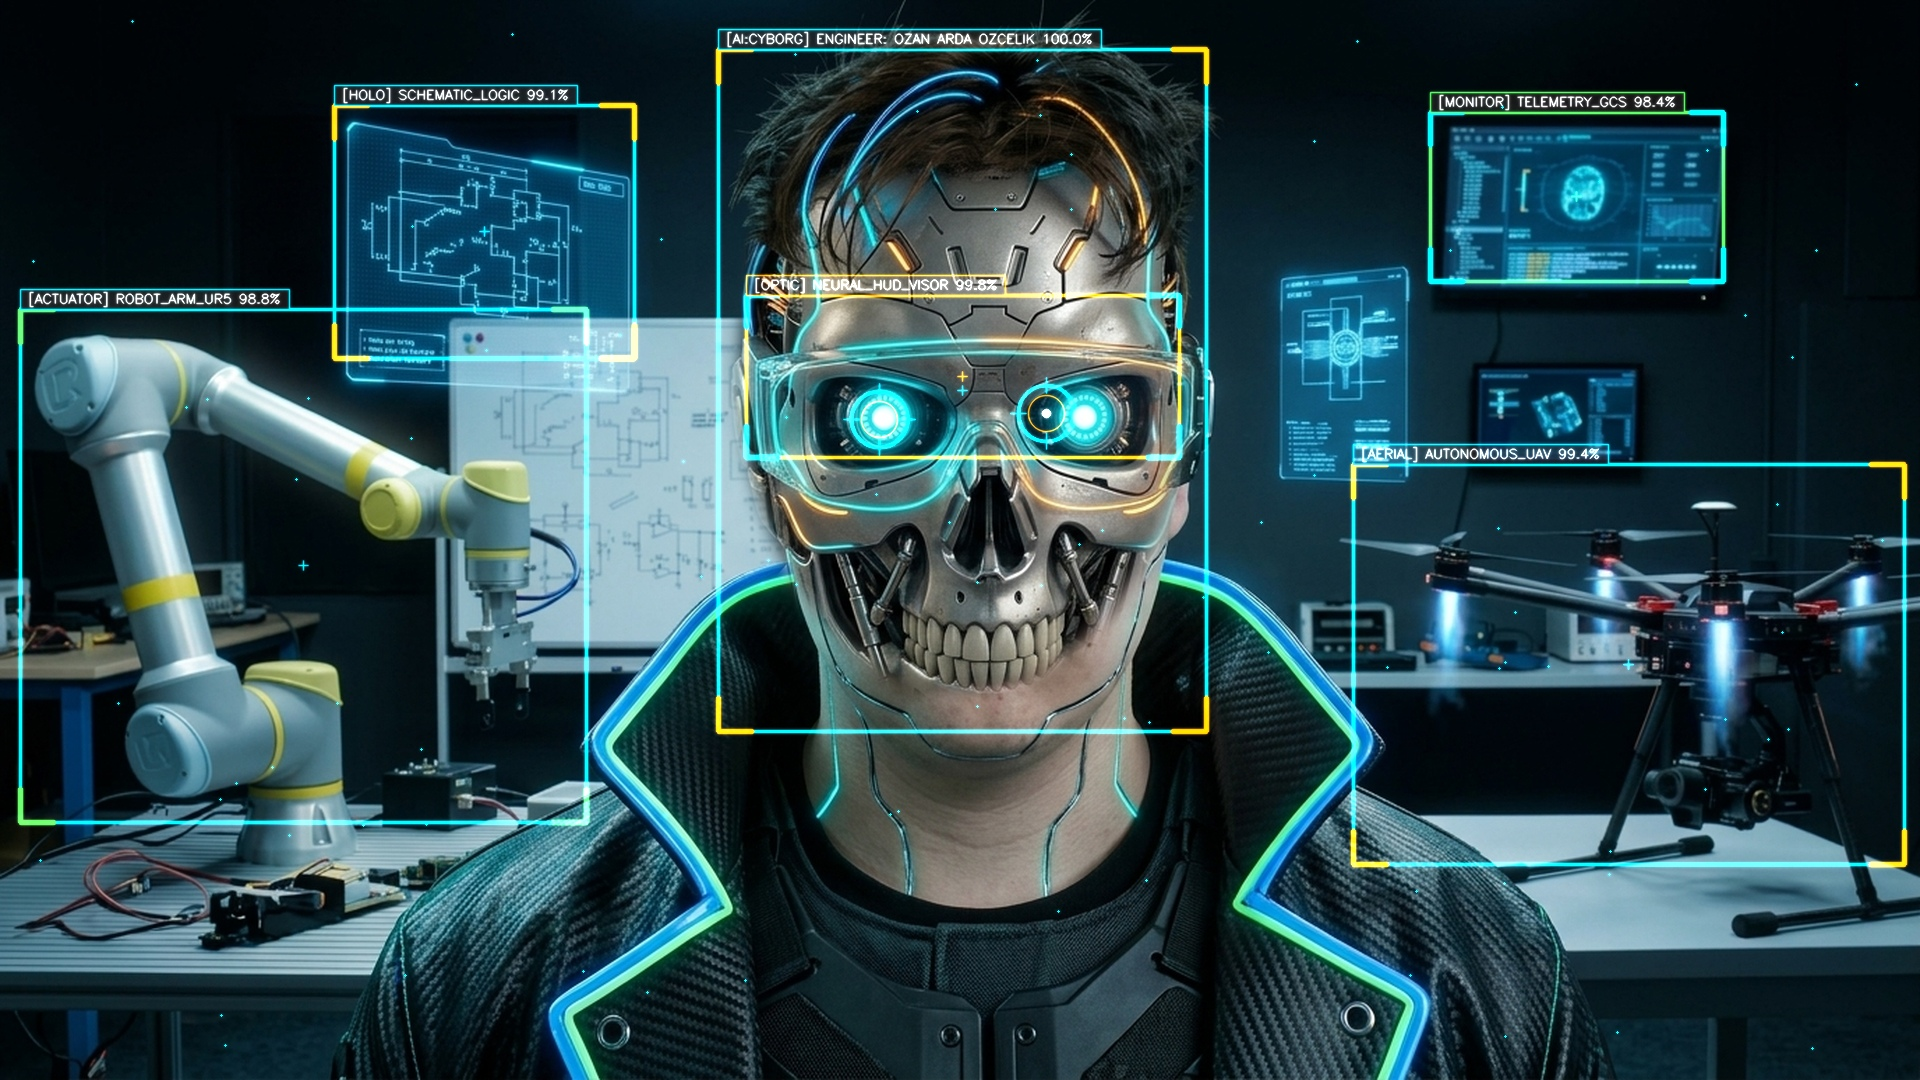
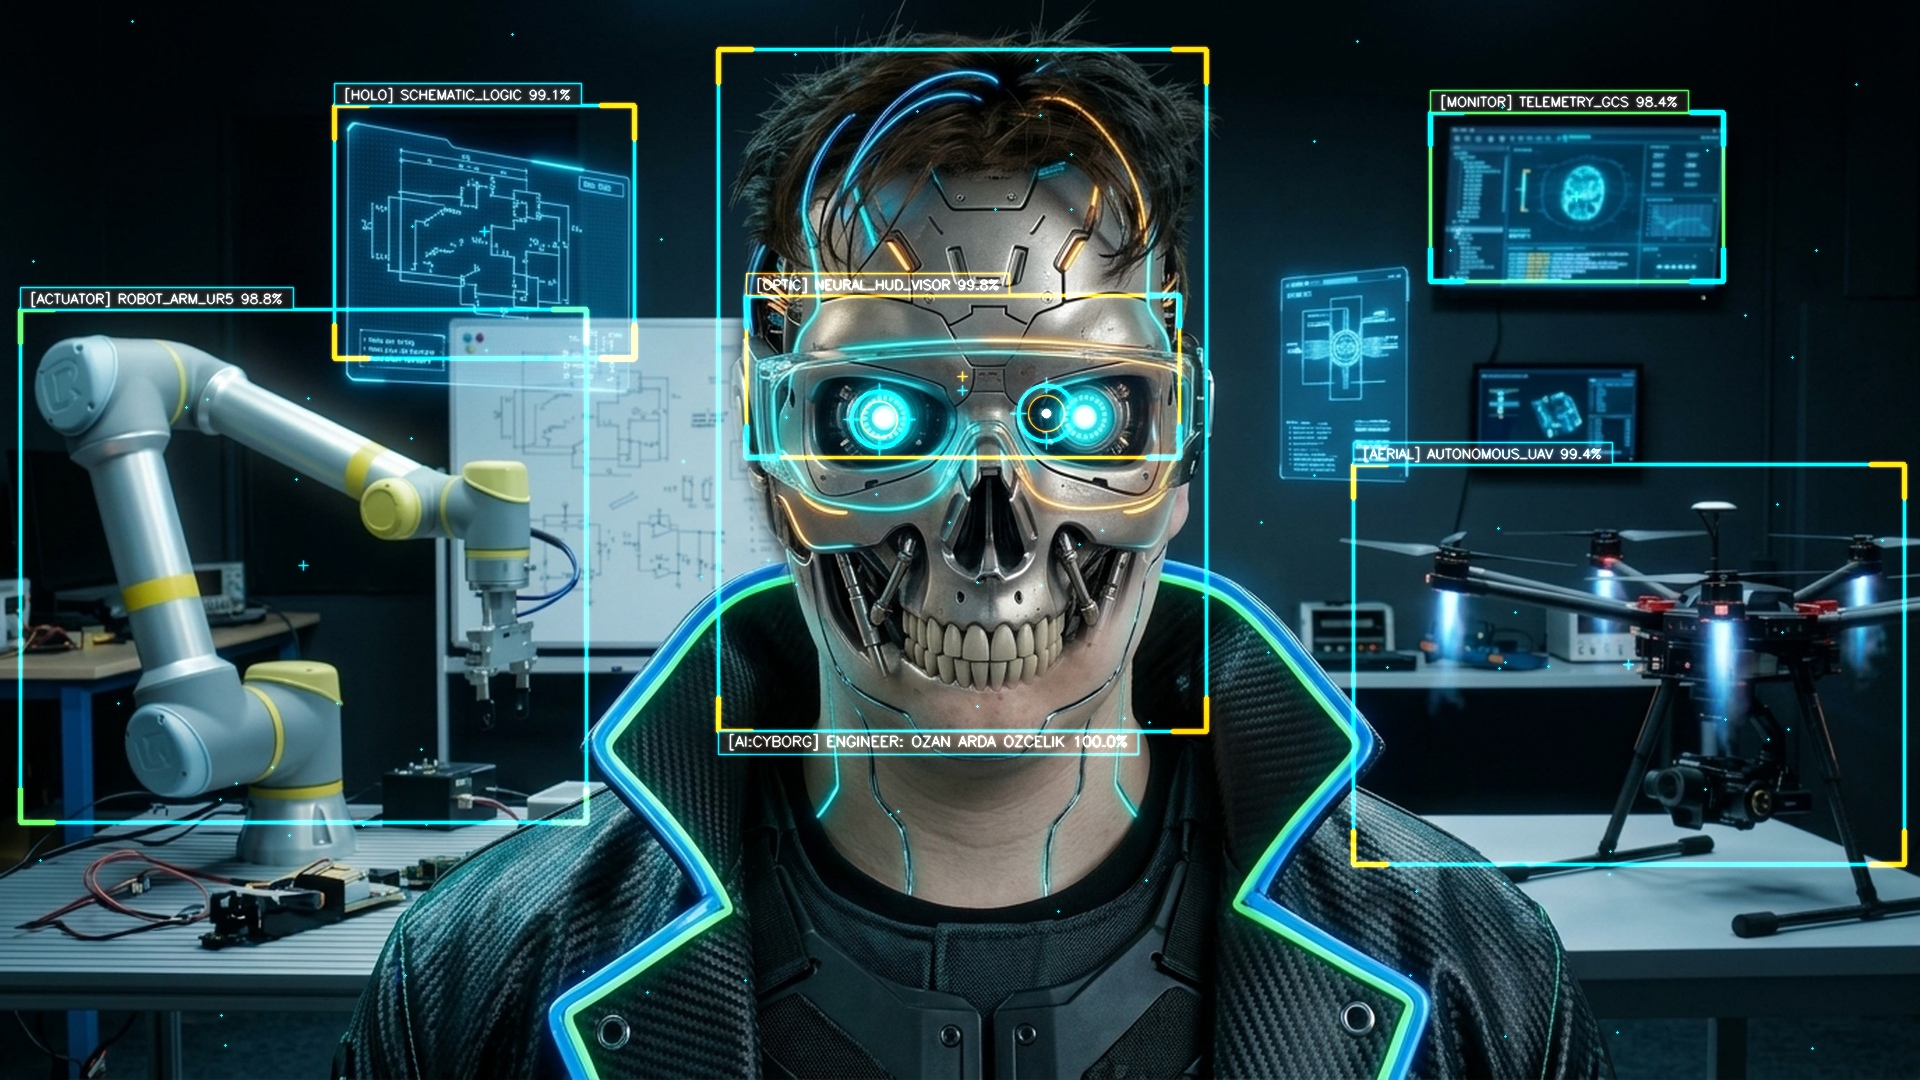
feat(hero): reposition engineer bounding box tag to bottom edge for crisp visibility

diff --git a/scratch/build_ai_cyborg_hero.py b/scratch/build_ai_cyborg_hero.py
@@ -35,7 +35,7 @@ def build_composite_bottom():
     composite = (bot_aligned * mask_3ch + top * (1.0 - mask_3ch)).astype(np.uint8)
     return composite
 
-def draw_cyber_box(overlay, px1, py1, px2, py2, label, score, primary=CYAN, accent=AMBER, class_id=None, glow=False):
+def draw_cyber_box(overlay, px1, py1, px2, py2, label, score, primary=CYAN, accent=AMBER, class_id=None, glow=False, tag_pos="top", font_scale_custom=None):
     box_thick = 2 if glow else 1
 
     # Boundary box
@@ -54,27 +54,32 @@ def draw_cyber_box(overlay, px1, py1, px2, py2, label, score, primary=CYAN, acce
     # Tag label text
     tag_text = f"[{class_id}] {label} {score:.1f}%" if score is not None else f"[{class_id}] {label}"
     font = cv2.FONT_HERSHEY_SIMPLEX
-    font_scale = 0.44 if glow else 0.41
+    font_scale = font_scale_custom if font_scale_custom is not None else (0.44 if glow else 0.41)
     thickness = 1
     (tw, th), _ = cv2.getTextSize(tag_text, font, font_scale, thickness)
 
-    tag_w = tw + 16
-    tag_h = th + 10
+    tag_w = tw + 20
+    tag_h = th + 12
     tag_x1 = max(4, min(px1, TARGET_W - tag_w - 4))
     tag_x2 = tag_x1 + tag_w
 
-    if py1 - tag_h > 4:
-        tag_y1 = py1 - tag_h
-        tag_y2 = py1
+    if tag_pos == "bottom":
+        tag_y1 = py2
+        tag_y2 = min(TARGET_H - 4, py2 + tag_h)
+        text_y = py2 + th + 4
     else:
-        tag_y1 = py1 + 2
-        tag_y2 = py1 + tag_h + 2
-    text_y = tag_y2 - 6
+        if py1 - tag_h > 4:
+            tag_y1 = py1 - tag_h
+            tag_y2 = py1
+        else:
+            tag_y1 = py1 + 2
+            tag_y2 = py1 + tag_h + 2
+        text_y = tag_y2 - 6
 
     # Dark background badge with cyber outline
     cv2.rectangle(overlay, (tag_x1, tag_y1), (tag_x2, tag_y2), DARK_BG, -1)
     cv2.rectangle(overlay, (tag_x1, tag_y1), (tag_x2, tag_y2), primary, 1, cv2.LINE_AA)
-    cv2.putText(overlay, tag_text, (tag_x1 + 8, text_y), font, font_scale, WHITE, thickness, cv2.LINE_AA)
+    cv2.putText(overlay, tag_text, (tag_x1 + 10, text_y), font, font_scale, WHITE, thickness, cv2.LINE_AA)
 
     # Center tracking reticle
     cx_center = (px1 + px2) // 2
@@ -94,18 +99,18 @@ sx = 1920.0 / 1376.0
 sy = 1080.0 / 768.0
 
 BOX_SPECS = [
-    # 1. Main Engineer Face Box (Head & Shoulders)
-    (int(515 * sx), int(35 * sy), int(865 * sx), int(520 * sy), "ENGINEER: OZAN ARDA OZCELIK", 100.0, CYAN, AMBER, "AI:CYBORG"),
+    # 1. Main Engineer Face Box (Head & Shoulders) — TAG AT BOTTOM FOR MAXIMUM READABILITY!
+    (int(515 * sx), int(35 * sy), int(865 * sx), int(520 * sy), "ENGINEER: OZAN ARDA OZCELIK", 100.0, CYAN, AMBER, "AI:CYBORG", "bottom", 0.48),
     # 2. Cyber Visor / Optical HUD
-    (int(535 * sx), int(210 * sy), int(845 * sx), int(325 * sy), "NEURAL_HUD_VISOR", 99.8, AMBER, CYAN, "OPTIC"),
+    (int(535 * sx), int(210 * sy), int(845 * sx), int(325 * sy), "NEURAL_HUD_VISOR", 99.8, AMBER, CYAN, "OPTIC", "top", None),
     # 3. UR5 Robot Arm (Left)
-    (int(15 * sx), int(220 * sy), int(420 * sx), int(585 * sy), "ROBOT_ARM_UR5", 98.8, CYAN, GREEN, "ACTUATOR"),
+    (int(15 * sx), int(220 * sy), int(420 * sx), int(585 * sy), "ROBOT_ARM_UR5", 98.8, CYAN, GREEN, "ACTUATOR", "top", None),
     # 4. UAV Drone (Right)
-    (int(970 * sx), int(330 * sy), int(1365 * sx), int(615 * sy), "AUTONOMOUS_UAV", 99.4, CYAN, AMBER, "AERIAL"),
+    (int(970 * sx), int(330 * sy), int(1365 * sx), int(615 * sy), "AUTONOMOUS_UAV", 99.4, CYAN, AMBER, "AERIAL", "top", None),
     # 5. Floating Circuit Hologram (Left-Center)
-    (int(240 * sx), int(75 * sy), int(455 * sx), int(255 * sy), "SCHEMATIC_LOGIC", 99.1, CYAN, AMBER, "HOLO"),
+    (int(240 * sx), int(75 * sy), int(455 * sx), int(255 * sy), "SCHEMATIC_LOGIC", 99.1, CYAN, AMBER, "HOLO", "top", None),
     # 6. Telemetry Monitor (Top-Right)
-    (int(1025 * sx), int(80 * sy), int(1235 * sx), int(200 * sy), "TELEMETRY_GCS", 98.4, GREEN, CYAN, "MONITOR"),
+    (int(1025 * sx), int(80 * sy), int(1235 * sx), int(200 * sy), "TELEMETRY_GCS", 98.4, GREEN, CYAN, "MONITOR", "top", None),
 ]
 
 def generate():
@@ -115,8 +120,8 @@ def generate():
     top_bgr = cv2.cvtColor(np.array(top_1080), cv2.COLOR_RGB2BGR)
 
     top_overlay = np.zeros_like(top_bgr)
-    for px1, py1, px2, py2, label, score, primary, accent, cid in BOX_SPECS:
-        draw_cyber_box(top_overlay, px1, py1, px2, py2, label, score, primary, accent, cid, glow=False)
+    for px1, py1, px2, py2, label, score, primary, accent, cid, tag_pos, fscale in BOX_SPECS:
+        draw_cyber_box(top_overlay, px1, py1, px2, py2, label, score, primary, accent, cid, glow=False, tag_pos=tag_pos, font_scale_custom=fscale)
 
     add_cyber_particles(top_overlay, 50)
     top_blur = cv2.GaussianBlur(top_overlay, (5, 5), 0)
@@ -134,8 +139,8 @@ def generate():
     bot_bgr = cv2.cvtColor(np.array(bot_1080), cv2.COLOR_RGB2BGR)
 
     bot_overlay = np.zeros_like(bot_bgr)
-    for px1, py1, px2, py2, label, score, primary, accent, cid in BOX_SPECS:
-        draw_cyber_box(bot_overlay, px1, py1, px2, py2, label, score, primary, accent, cid, glow=True)
+    for px1, py1, px2, py2, label, score, primary, accent, cid, tag_pos, fscale in BOX_SPECS:
+        draw_cyber_box(bot_overlay, px1, py1, px2, py2, label, score, primary, accent, cid, glow=True, tag_pos=tag_pos, font_scale_custom=fscale)
 
     add_cyber_particles(bot_overlay, 90)
 
